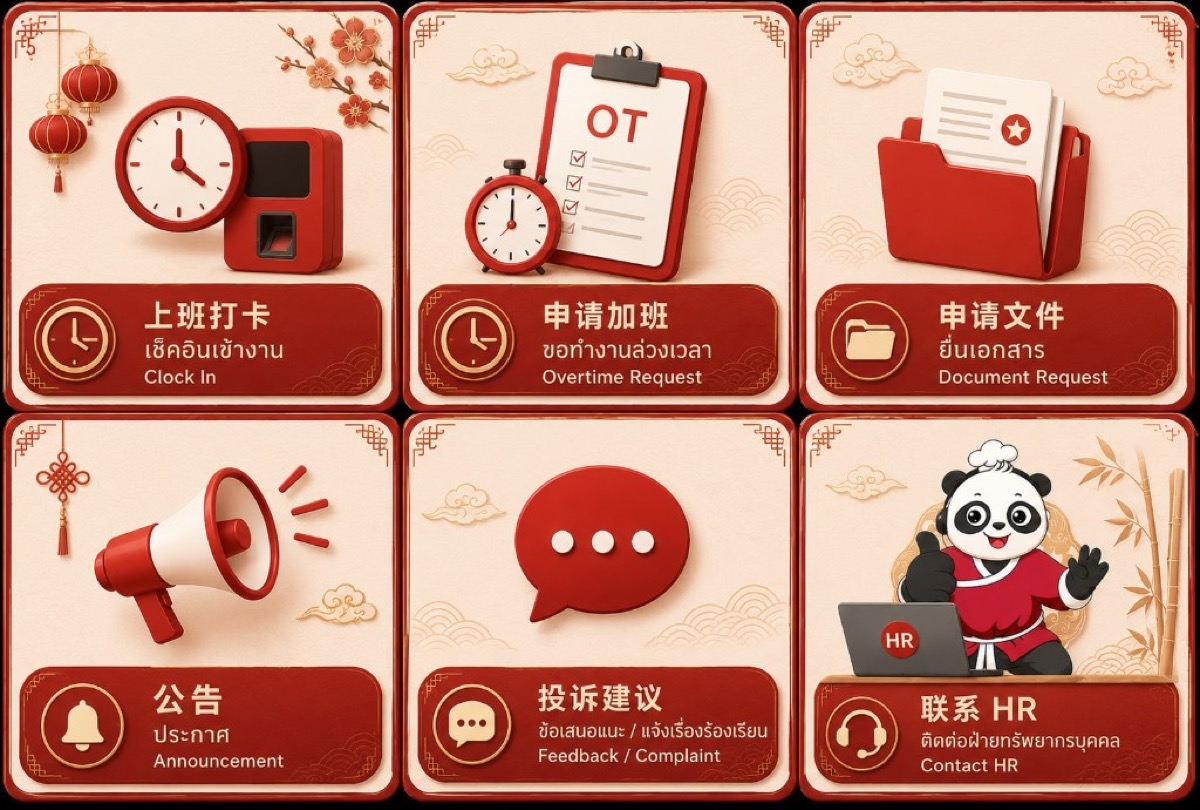
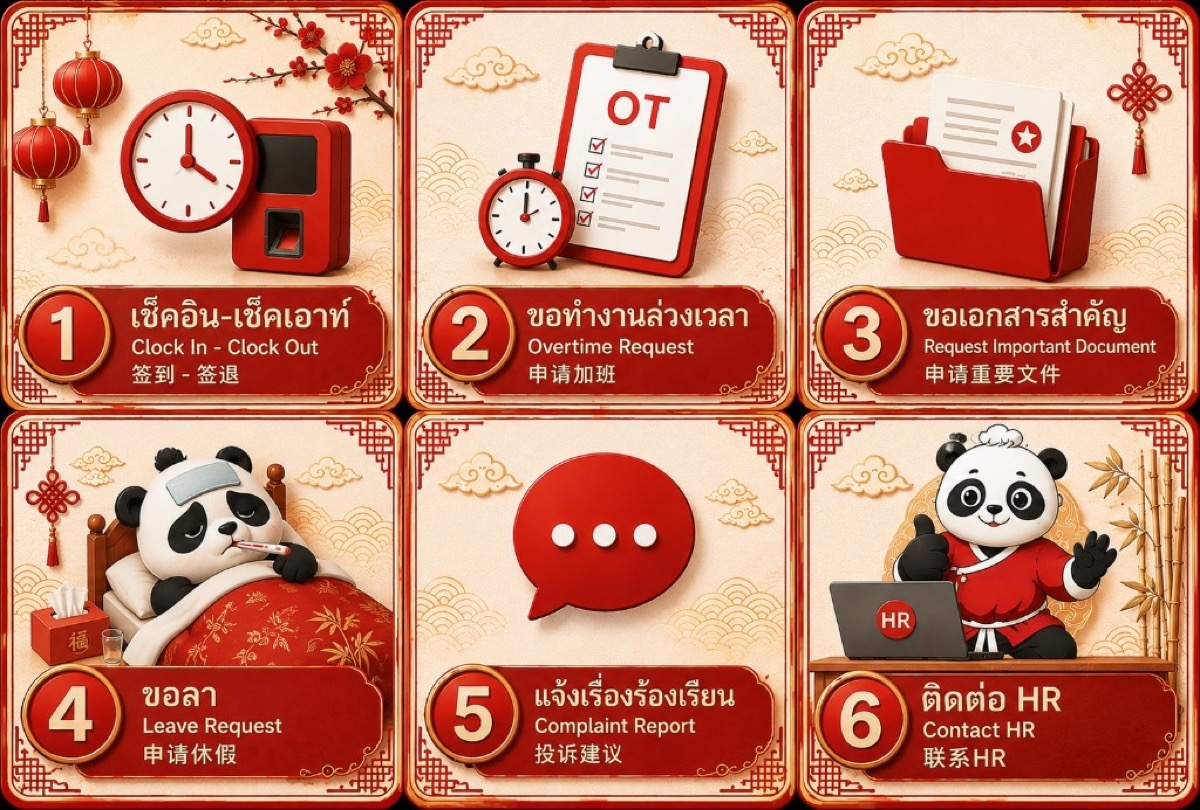
Deploy HR app: LINE rich menu v3 and optional /stock slash command.
Separate leave on rich menu, refresh check-in flex, and gate stock behind LINE_STOCK_COMMAND_ENABLED.

diff --git a/PROJECTS/hr-payroll-client/hr-app/src/lib/line/flex/menu-guide.ts b/PROJECTS/hr-payroll-client/hr-app/src/lib/line/flex/menu-guide.ts
@@ -114,27 +114,12 @@ function menuItemRow(
   ]
 }
 
-function leavePickerAction(liffId?: string): messagingApi.Action {
-  if (liffId) {
-    return {
-      type: "uri",
-      label: "🏖 ขอลา",
-      uri: `https://liff.line.me/${liffId}`,
-    }
-  }
-  return {
-    type: "postback",
-    label: "🏖 ขอลา",
-    data: "action=leave",
-  }
-}
-
-export function attendancePickerFlex(liffId?: string): messagingApi.FlexMessage {
-  return flexMessage("บันทึกเวลา — เข้างาน / เลิกงาน / ขอลา", {
+export function attendancePickerFlex(_liffId?: string): messagingApi.FlexMessage {
+  return flexMessage("บันทึกเวลา — เข้างาน / เลิกงาน", {
     type: "bubble",
     header: brandedTitleHeader({
-      title: "บันทึกเวลา",
-      subtitle: "เข้างาน · เลิกงาน · ขอลา",
+      title: "เช็คอิน · เข้างาน",
+      subtitle: "เข้างาน · เลิกงาน",
       accentColor: BRAND_RED,
       emoji: "⏱",
     }),
@@ -209,31 +194,12 @@ export function attendancePickerFlex(liffId?: string): messagingApi.FlexMessage 
           ],
         },
         {
-          type: "box",
-          layout: "vertical",
-          backgroundColor: "#FFF7ED",
-          cornerRadius: "8px",
-          paddingAll: "12px",
+          type: "text",
+          text: "ขอลาใช้ปุ่ม \"ขอลา\" บน Rich Menu · สต็อกพิมพ์ /stock (เมื่อ HR เปิดใช้)",
+          wrap: true,
+          size: "xxs",
+          color: "#9CA3AF",
           margin: "sm",
-          contents: [
-            { type: "text", text: "🏖", size: "lg", align: "center" },
-            {
-              type: "text",
-              text: "ขอลา",
-              weight: "bold",
-              size: "sm",
-              color: "#9A3412",
-              align: "center",
-              margin: "xs",
-            },
-            {
-              type: "text",
-              text: "ยื่นคำขอลาออนไลน์",
-              size: "xxs",
-              color: "#EA580C",
-              align: "center",
-            },
-          ],
         },
     ]),
     footer: {
@@ -263,12 +229,6 @@ export function attendancePickerFlex(liffId?: string): messagingApi.FlexMessage 
             label: "🔴 เลิกงาน",
             data: "action=checkout",
           },
-        },
-        {
-          type: "button",
-          style: "secondary",
-          height: "sm",
-          action: leavePickerAction(liffId),
         },
       ],
     },
@@ -386,7 +346,13 @@ export function alreadyCheckedOutFlex(timeText: string): messagingApi.FlexMessag
 }
 
 export function leaveGuideFlex(liffId?: string): messagingApi.FlexMessage {
-  const hasLiff = Boolean(liffId)
+  const baseUrl = process.env.NEXT_PUBLIC_BASE_URL?.replace(/\/$/, "")
+  const leaveUri = baseUrl
+    ? `${baseUrl}/liff/leave`
+    : liffId
+      ? `https://liff.line.me/${liffId}`
+      : undefined
+  const hasLiff = Boolean(leaveUri)
 
   return guide(
     hasLiff ? "ขอลา — เปิดแบบฟอร์ม" : "ขอลา — เตรียมเปิดใช้งาน",
@@ -414,7 +380,7 @@ export function leaveGuideFlex(liffId?: string): messagingApi.FlexMessage {
         ? {
             button: {
               label: "เปิดแบบฟอร์มขอลา",
-              uri: `https://liff.line.me/${liffId}`,
+              uri: leaveUri!,
             },
           }
         : { statusLabel: "⏳ เร็วๆ นี้" }),
@@ -539,6 +505,69 @@ export function announcementGuideFlex(): messagingApi.FlexMessage {
       ? { button: { label: "เปิด Portal", uri: portalUrl } }
       : { statusLabel: "Portal" }),
   })
+}
+
+export function checkStockGuideFlex(options: {
+  stockUrl?: string
+  inboundUrl?: string
+}): messagingApi.FlexMessage {
+  const { stockUrl, inboundUrl } = options
+  const hasStock = Boolean(stockUrl)
+  const hasInbound = Boolean(inboundUrl)
+
+  const footerButtons: messagingApi.FlexComponent[] = []
+  if (hasStock) {
+    footerButtons.push({
+      type: "button",
+      style: "primary",
+      color: "#4F46E5",
+      height: "sm",
+      action: { type: "uri", label: "ดูยอดสต็อก", uri: stockUrl! },
+    })
+  }
+  if (hasInbound) {
+    footerButtons.push({
+      type: "button",
+      style: "secondary",
+      height: "sm",
+      action: { type: "uri", label: "สแกนรับเข้า", uri: inboundUrl! },
+    })
+  }
+
+  return flexMessage(
+    hasStock ? "เช็คสต็อก — ดูยอดคงเหลือ" : "เช็คสต็อก — เตรียมเปิดใช้งาน",
+    {
+      type: "bubble",
+      header: brandedTitleHeader({
+        title: "เช็คสต็อก",
+        subtitle: "ยอดคงเหลือ · รับเข้าสินค้า",
+        accentColor: "#4F46E5",
+        emoji: "📦",
+      }),
+      body: cardBody([
+        {
+          type: "text",
+          text: hasStock
+            ? "ดูยอดสต็อกตาม SKU และคลัง หรือสแกน barcode รับเข้าตามใบที่ Inventory เปิดไว้"
+            : "ระบบคลังสินค้ากำลังเตรียมเปิดใช้งาน",
+          wrap: true,
+          size: "sm",
+          color: "#4B5563",
+        },
+      ]),
+      ...(footerButtons.length > 0
+        ? {
+            footer: {
+              type: "box",
+              layout: "vertical",
+              spacing: "sm",
+              paddingAll: "12px",
+              contents: footerButtons,
+            },
+          }
+        : {}),
+    }
+  )
 }
 
 export function inventoryGuideFlex(portalUrl?: string): messagingApi.FlexMessage {

diff --git a/PROJECTS/hr-payroll-client/hr-app/src/lib/line/rich-menu.ts b/PROJECTS/hr-payroll-client/hr-app/src/lib/line/rich-menu.ts
@@ -1,5 +1,6 @@
 // Rich menu image spec: 1200x810 PNG or JPEG, max 1MB (LINE compact size).
-// Layout: 2 rows × 3 columns — เช็คอิน | OT | เอกสาร / คลังสินค้า | ร้องเรียน | ติดต่อ HR
+// Layout: 2 rows × 3 columns — เช็คอิน | OT | เอกสาร / ขอลา | ร้องเรียน | ติดต่อ HR
+// เช็คสต็อก: พิมพ์ /stock ในแชท (LINE_STOCK_COMMAND_ENABLED=true)
 import { readFile } from "node:fs/promises"
 
 import type { messagingApi } from "@line/bot-sdk"
@@ -14,7 +15,7 @@ const ROW = H / 2
 export const HR_RICH_MENU: messagingApi.RichMenuRequest = {
   size: { width: W, height: H },
   selected: true,
-  name: "hr-main-menu-v2",
+  name: "hr-main-menu-v3",
   chatBarText: "เมนู HR",
   areas: [
     {
@@ -22,7 +23,7 @@ export const HR_RICH_MENU: messagingApi.RichMenuRequest = {
       action: {
         type: "postback",
         data: "action=checkin",
-        label: "เช็คอินเข้างาน",
+        label: "เช็คอิน-เช็คเอาท์",
       },
     },
     {
@@ -38,15 +39,15 @@ export const HR_RICH_MENU: messagingApi.RichMenuRequest = {
       action: {
         type: "postback",
         data: "action=document",
-        label: "ยื่นเอกสาร",
+        label: "ขอเอกสารสำคัญ",
       },
     },
     {
       bounds: { x: 0, y: ROW, width: COL, height: ROW },
       action: {
         type: "postback",
-        data: "action=inventory",
-        label: "คลังสินค้า",
+        data: "action=leave",
+        label: "ขอลา",
       },
     },
     {
@@ -54,7 +55,7 @@ export const HR_RICH_MENU: messagingApi.RichMenuRequest = {
       action: {
         type: "postback",
         data: "action=complaint",
-        label: "ข้อเสนอแนะ / ร้องเรียน",
+        label: "แจ้งเรื่องร้องเรียน",
       },
     },
     {

diff --git a/PROJECTS/hr-payroll-client/hr-app/src/lib/line/handlers/message.ts b/PROJECTS/hr-payroll-client/hr-app/src/lib/line/handlers/message.ts
@@ -18,6 +18,11 @@ import {
 } from "@/lib/line/flex/menu-guide"
 import { buildActionMessages } from "@/lib/line/handlers/actions"
 import { isOneOnOneUserSource } from "@/lib/line/handlers/source"
+import {
+  isStockCommandEnabled,
+  parseSlashCommand,
+  stockCommandDisabledMessage,
+} from "@/lib/line/slash-commands"
 import type { RichMenuPostbackAction } from "@/lib/line/types"
 
 /** Free-text chat is off by default — Rich Menu + postback + location only. */
@@ -152,11 +157,33 @@ export async function handleMessage(
     return
   }
 
+  const text = event.message.text.trim()
+  const slashAction = parseSlashCommand(text)
+  if (slashAction) {
+    const lineUserId =
+      event.source?.type === "user" ? event.source.userId : undefined
+    if (
+      (slashAction === "check_stock" || slashAction === "inventory") &&
+      !isStockCommandEnabled()
+    ) {
+      await getLineClient().replyMessage({
+        replyToken: event.replyToken,
+        messages: [stockCommandDisabledMessage()],
+      })
+      return
+    }
+    const messages = await buildActionMessages(slashAction, { lineUserId })
+    await getLineClient().replyMessage({
+      replyToken: event.replyToken,
+      messages,
+    })
+    return
+  }
+
   if (!isUserChatEnabled()) {
     return
   }
 
-  const text = event.message.text.trim()
   const textActions: Record<string, RichMenuPostbackAction> = {
     คลังสินค้า: "inventory",
     สแกนรับเข้า: "inventory",

diff --git a/PROJECTS/hr-payroll-client/hr-app/src/lib/line/slash-commands.ts b/PROJECTS/hr-payroll-client/hr-app/src/lib/line/slash-commands.ts
@@ -1,0 +1,25 @@
+import type { RichMenuPostbackAction } from "@/lib/line/types"
+
+/** Slash/text shortcuts — work even when LINE_USER_CHAT_ENABLED=false */
+const SLASH_COMMANDS: Record<string, RichMenuPostbackAction> = {
+  "/stock": "check_stock",
+  "/สต็อก": "check_stock",
+  "/inbound": "inventory",
+  "/รับเข้า": "inventory",
+}
+
+export function isStockCommandEnabled(): boolean {
+  return process.env.LINE_STOCK_COMMAND_ENABLED === "true"
+}
+
+export function parseSlashCommand(text: string): RichMenuPostbackAction | null {
+  const key = text.trim().toLowerCase()
+  return SLASH_COMMANDS[key] ?? SLASH_COMMANDS[text.trim()] ?? null
+}
+
+export function stockCommandDisabledMessage(): { type: "text"; text: string } {
+  return {
+    type: "text",
+    text: "คำสั่ง /stock ปิดใช้งานชั่วคราว — ใช้ Rich Menu หรือติดต่อ HR",
+  }
+}

diff --git a/PROJECTS/hr-payroll-client/hr-app/src/lib/line/handlers/actions/index.ts b/PROJECTS/hr-payroll-client/hr-app/src/lib/line/handlers/actions/index.ts
@@ -2,6 +2,7 @@ import type { messagingApi } from "@line/bot-sdk"
 
 import type { RichMenuPostbackAction } from "@/lib/line/types"
 import { announcementAction } from "@/lib/line/handlers/actions/announcement"
+import { checkStockAction } from "@/lib/line/handlers/actions/check-stock"
 import { checkinAction } from "@/lib/line/handlers/actions/checkin"
 import { checkinInAction } from "@/lib/line/handlers/actions/checkin-in"
 import {
@@ -35,6 +36,7 @@ const ACTION_HANDLERS: Record<
   document: documentAction,
   complaint: complaintAction,
   inventory: inventoryAction,
+  check_stock: checkStockAction,
   announcement: announcementAction,
   contact_hr: contactHrAction,
   contact_hr_notify: contactHrNotifyAction,

diff --git a/PROJECTS/hr-payroll-client/hr-app/src/lib/line/handlers/actions/check-stock.ts b/PROJECTS/hr-payroll-client/hr-app/src/lib/line/handlers/actions/check-stock.ts
@@ -1,0 +1,14 @@
+import type { messagingApi } from "@line/bot-sdk"
+
+import { checkStockGuideFlex } from "@/lib/line/flex/menu-guide"
+import { isStockCommandEnabled, stockCommandDisabledMessage } from "@/lib/line/slash-commands"
+
+export function checkStockAction(): messagingApi.Message[] {
+  if (!isStockCommandEnabled()) {
+    return [stockCommandDisabledMessage()]
+  }
+  const base = process.env.NEXT_PUBLIC_BASE_URL?.replace(/\/$/, "")
+  const stockUrl = base ? `${base}/admin/inventory/stock` : undefined
+  const inboundUrl = base ? `${base}/portal/inbound` : undefined
+  return [checkStockGuideFlex({ stockUrl, inboundUrl })]
+}

diff --git a/PROJECTS/hr-payroll-client/hr-app/src/lib/line/handlers/actions/checkin.ts b/PROJECTS/hr-payroll-client/hr-app/src/lib/line/handlers/actions/checkin.ts
@@ -2,7 +2,7 @@ import type { messagingApi } from "@line/bot-sdk"
 
 import { attendancePickerFlex } from "@/lib/line/flex/menu-guide"
 
-// Rich menu "เช็คอิน" → เข้างาน / เลิกงาน / ขอลา (LIFF).
+// Rich menu "เช็คอิน" → เข้างาน / เลิกงาน (สต็อก: พิมพ์ /stock เมื่อ HR เปิด LINE_STOCK_COMMAND_ENABLED).
 export function checkinAction(): messagingApi.Message[] {
   return [attendancePickerFlex(process.env.NEXT_PUBLIC_LINE_LIFF_ID)]
 }

diff --git a/PROJECTS/hr-payroll-client/hr-app/src/lib/line/types.ts b/PROJECTS/hr-payroll-client/hr-app/src/lib/line/types.ts
@@ -9,6 +9,7 @@ export const RICH_MENU_ACTIONS = [
   "document",
   "complaint",
   "inventory",
+  "check_stock",
   "announcement",
   "contact_hr",
   "contact_hr_notify",
